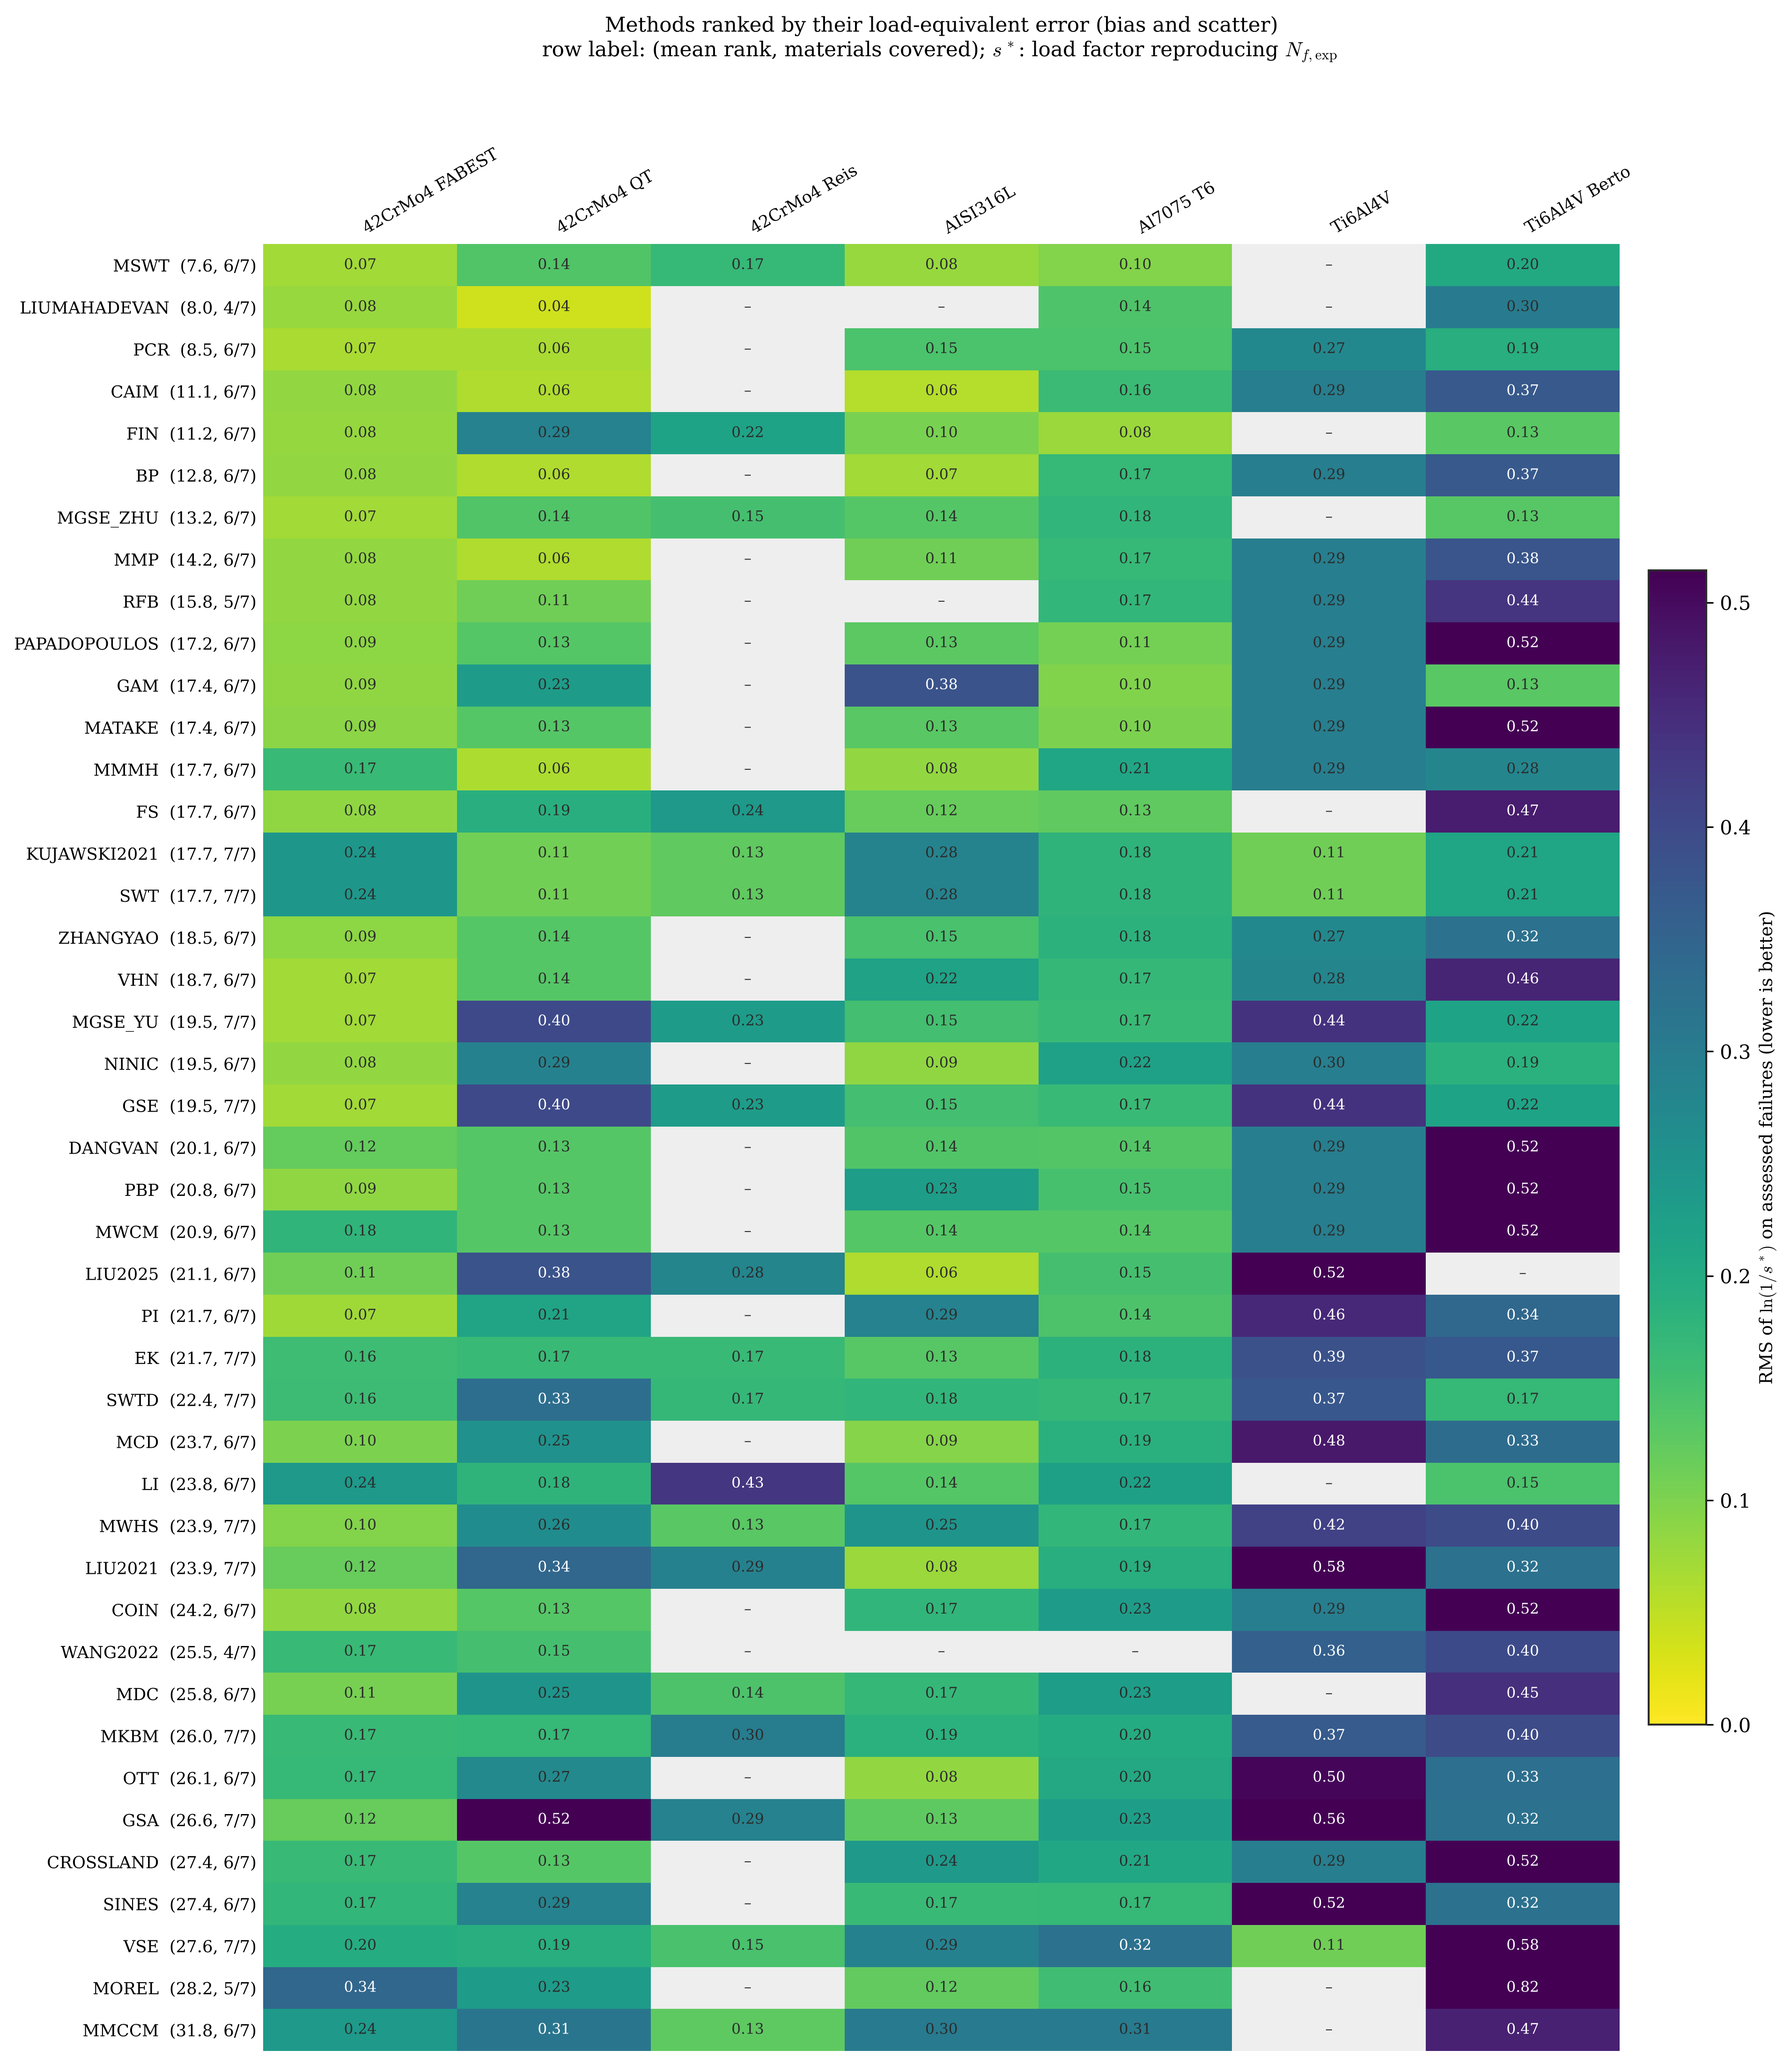
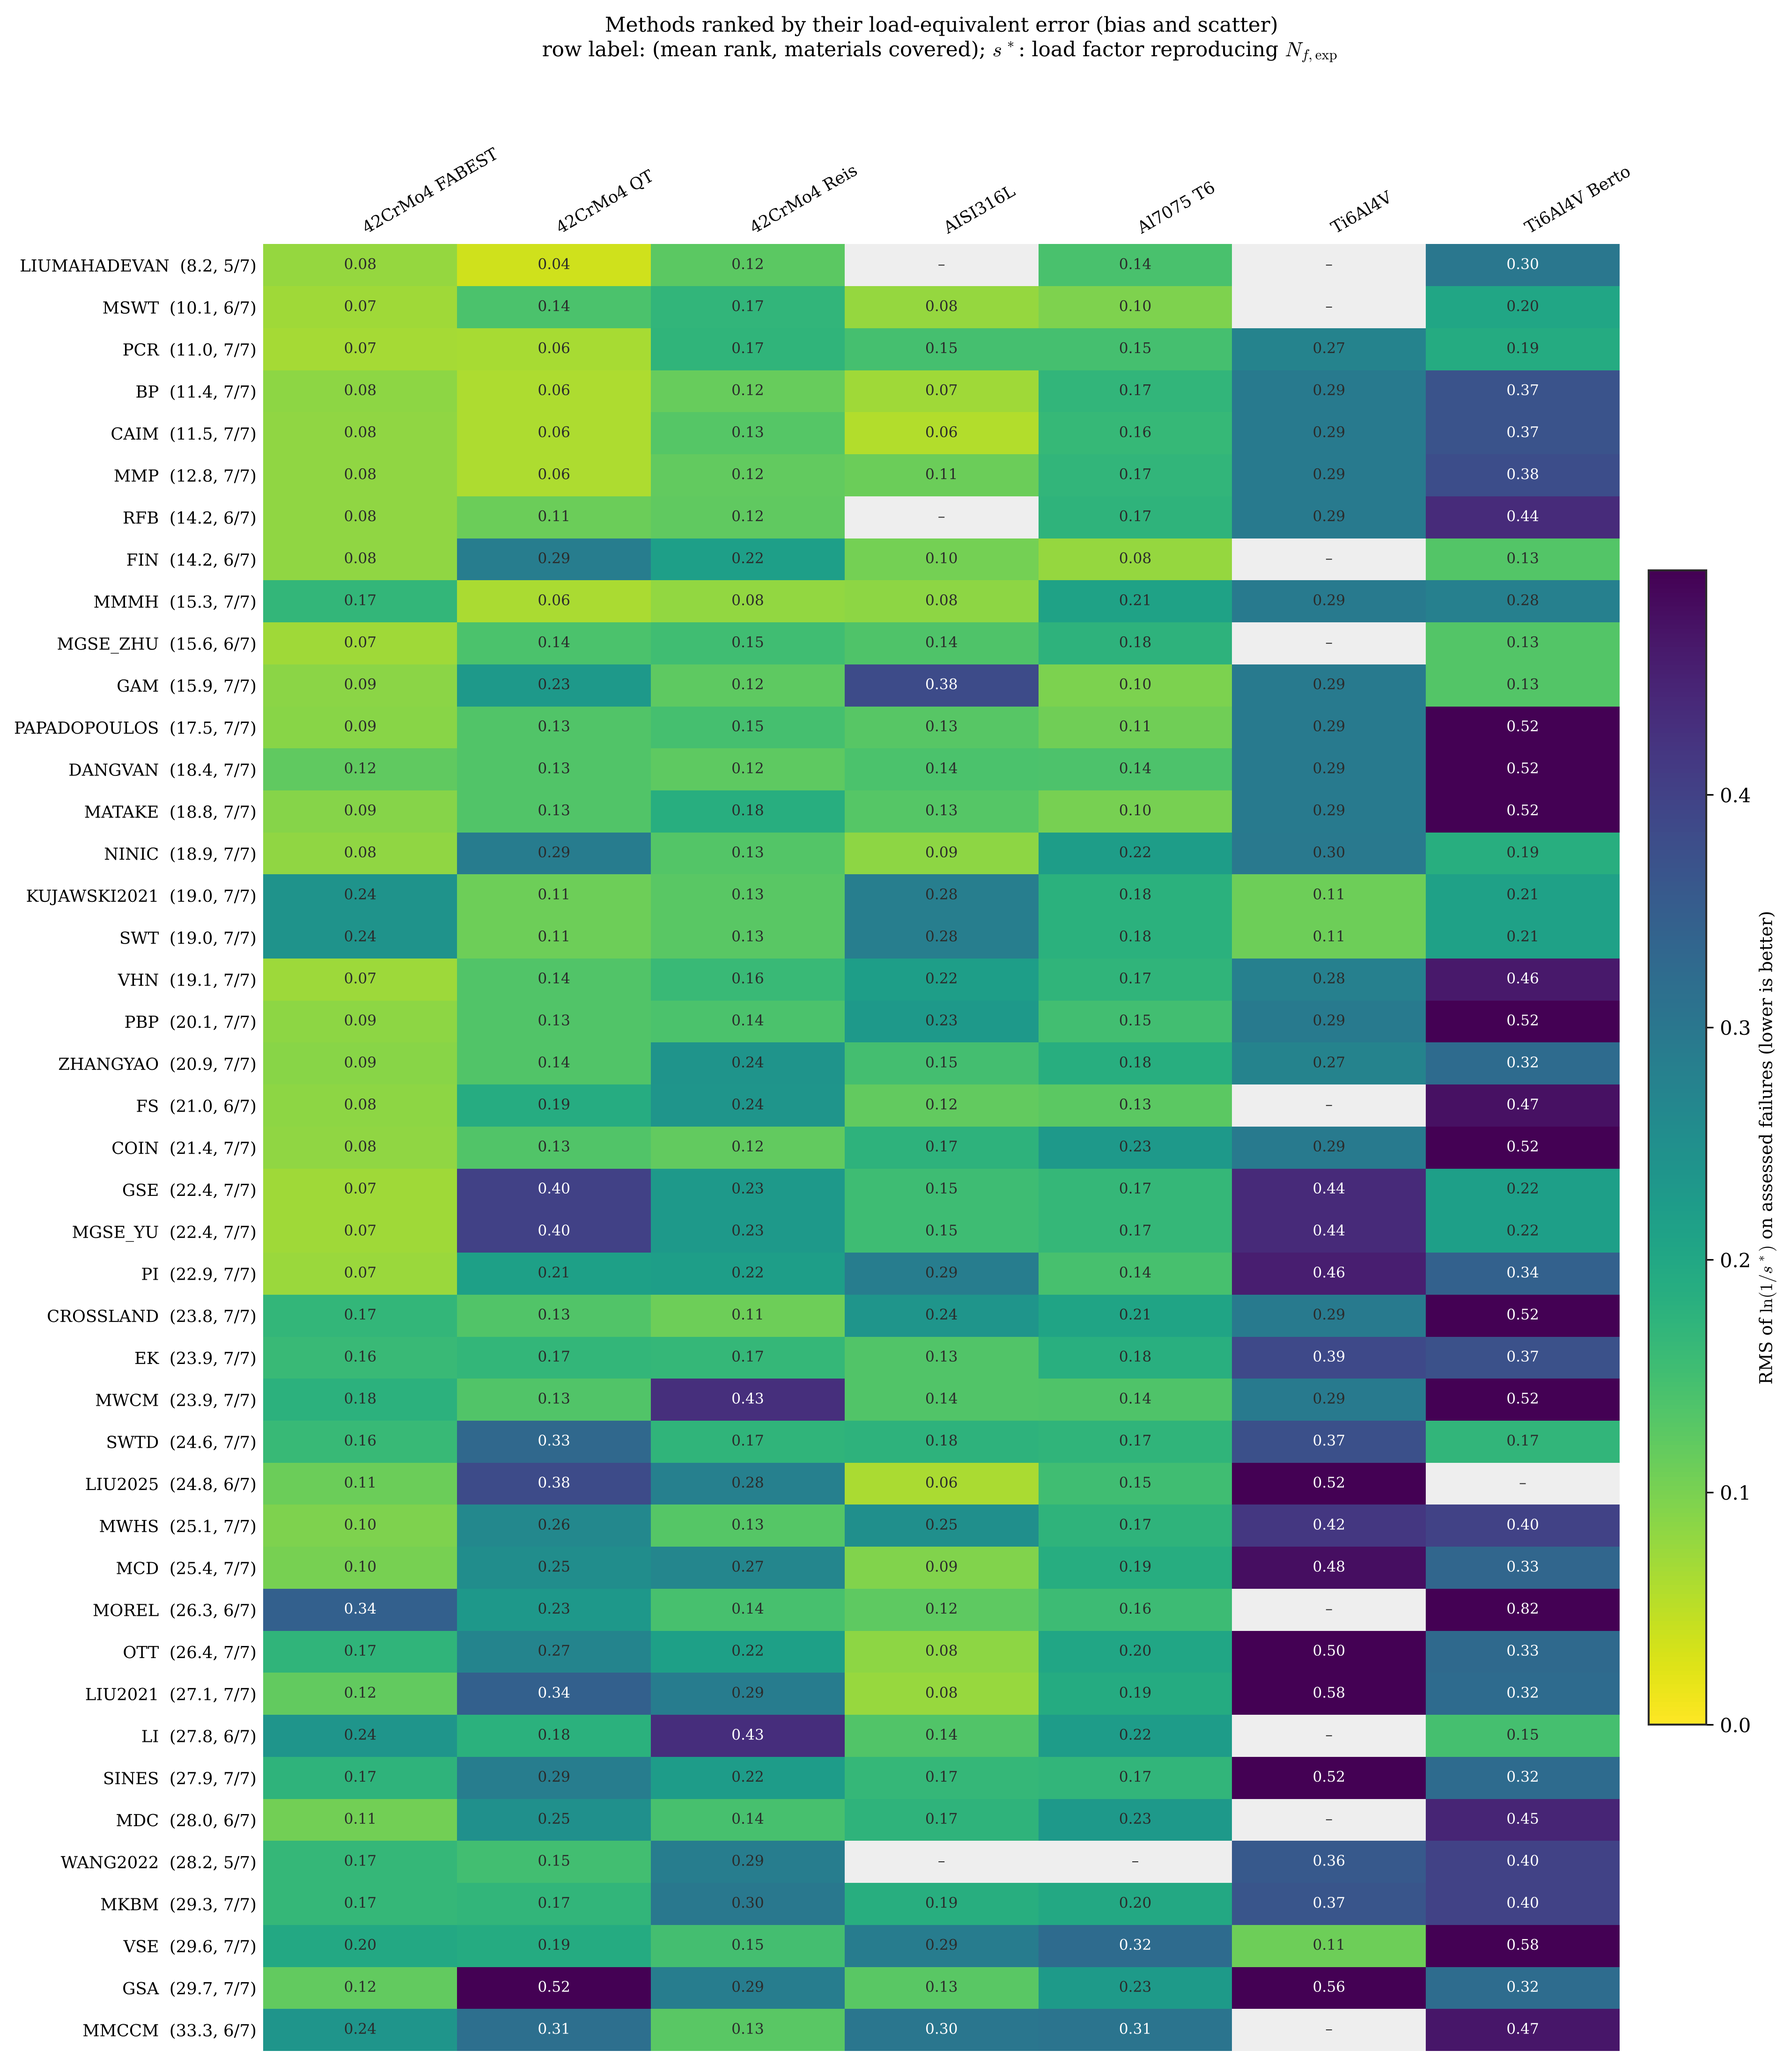
Data: R = -1 fatigue limits of 42CrMo4_Reis from the authors' trend lines (d100, #71)
Sigm1 = 452 MPa, Taum1 = 372 MPa at 1e6 cycles: Anes et al., IJF 62 (2014),
Table 5 (Table 4 trend lines), as done for FABEST. Added as a Summary source
row by an overlay; the supplied workbook is unchanged. The 22 limit-based
methods and WANG2022 now run on Reis.

Regression snapshot against main c09dc4c: no other run output changes; the
existing Reis CSVs differ only in Dataset_fingerprint. Homepage load-error
ranking: Reis rows rebuilt (19 -> 43 methods), QT/FABEST rows reproduced.

Claude-Session: https://claude.ai/code/session_01KzHgFiC4WA789boM7p2Bhj

diff --git a/tests/test_dataset_overlays.py b/tests/test_dataset_overlays.py
@@ -1,6 +1,6 @@
 """Overlay layer: as-supplied workbooks plus declared corrections reproduce the revised dataset.
 
-The five workbooks edited after supply are kept byte-identical to their source; their corrections
+The workbooks edited after supply are kept byte-identical to their source; their corrections
 are shipped with the package. Each overlay is found by the SHA-256 of the file it was written against,
 so it follows a copy of that file and never applies to an edited one.
 """
@@ -21,7 +21,7 @@ from multifat.report.subsets import dataset_fingerprint
 
 ROOT = Path(__file__).resolve().parents[1]
 FOLDER = ROOT / "Experimental_Data"
-OVERLAID = ["2_CX18", "3_25CrMo4", "4_30NCD16", "7_982FA", "8_AISI316L"]
+OVERLAID = ["2_CX18", "3_25CrMo4", "4_30NCD16", "7_982FA", "8_AISI316L", "14_42CrMo4_Reis"]
 
 
 def _sha256(path: Path) -> str:
@@ -182,3 +182,18 @@ def test_aisi316l_psi_correction_scope_is_six_of_eight_added_cases():
         assert op["psi_shear_source_precision"]["correction_type"].startswith(
             "published figure rounding"
         )
+
+
+def test_reis_fatigue_limits_are_the_authors_trend_lines_at_1e6():
+    """d100: Sigm1, Taum1 of 42CrMo4_Reis = Anes et al. IJF 62 (2014) Table 5 at N = 1e6."""
+    block = load_material_workbook(FOLDER / "14_42CrMo4_Reis.xlsx")["42CrMo4_Reis"]
+    assert block["material"]["Tensile_fatigue_limit_MPa"] == 452.0
+    assert block["material"]["Torsional_fatigue_limit_MPa"] == 372.0
+    (src,) = block["fatigue_limit_sources"]["Sigm1"]
+    assert src["reference"] == "10.1016/j.ijfatigue.2013.05.004"
+    assert src["reference_cycles"] == 1e6 and src["loading"] == "push-pull"
+    # the Table 4 trend lines behind Table 5 (sigma_a = 1204.3 N^-0.071, tau_a = 864.78 N^-0.061)
+    assert abs(1204.3 * 1e6**-0.071 - 452.0) < 1.0
+    assert abs(864.78 * 1e6**-0.061 - 372.0) < 1.0
+    off = load_material_workbook(FOLDER / "14_42CrMo4_Reis.xlsx", overlay=False)["42CrMo4_Reis"]
+    assert off["material"]["Tensile_fatigue_limit_MPa"] is None

diff --git a/Experimental_Data/PROVENANCE.md b/Experimental_Data/PROVENANCE.md
@@ -62,6 +62,7 @@ confirmed by T. Grossi on 2026-10-19 (decision d061).
 
 - 42CrMo4 and Ti6Al4V: confirm whether the Anes/Reis and Berto rows should remain separated as distinct batch workbooks
   (`14_42CrMo4_Reis.xlsx` and `15_Ti6Al4V_Berto.xlsx`) or consolidated into the primary files.
+  For 42CrMo4 they stay separate: the three workbooks are the batches compared in issue #71.
 - AISI316L: the Braun Summary row gives 387.8 MPa as tensile fatigue limit at R = 0; Braun Fig. 13(i)
   prints it as the stress range Delta sigma_R,50% at 1e6 cycles (amplitude 193.9 MPa). Averaged with
   Janssens' 241 MPa (R = -1) it gives Sigm1 = 314.4 MPa, which the importer does not use (stress-ratio
@@ -144,6 +145,29 @@ transverse hole) and fretting curves. Their axial R = -1 strengths at 1e6 cycles
 - Whether the shear stress of the hollow specimens refers to the outer surface or to the mean wall
   radius ("related to net section") is not stated. Values are used as given.
 
+## 14_42CrMo4_Reis.xlsx: R = -1 fatigue limits (overlay, 2026-11-10)
+
+**Maintainer decision d100 (issue #71).** The Summary had no fatigue limits, so the 22 limit-based
+methods and WANG2022 skipped this batch. As for FABEST, the limits are the authors' strengths at
+N = 1e6 from their own S-N trend lines: Anes, Reis, Li, Fonte, de Freitas, Int. J. Fatigue 62 (2014)
+21-33, doi:10.1016/j.ijfatigue.2013.05.004, Table 5 p. 28, case 1 at N = 1e6:
+
+| Limit | Value | Trend line (Table 4, p. 27) |
+| --- | --- | --- |
+| Sigm1 (push-pull, R = -1) | 452 MPa | sigma_a = 1204.3 N^-0.071 (case 1, pure axial) |
+| Taum1 (R = -1) | 372 MPa | tau_a = 864.78 N^-0.061 (case 2, pure shear) |
+
+The IJF 62 paper analyses the same Reis tests as the two Summary sources (the SSF surface is fitted
+on them, `Calibrations/42CrMo4_Reis/SSF_published.json`).
+
+- The supplied workbook is unchanged. The values are a new Summary source row (row 4, with the
+  column `Axial fatigue limit loading` = push-pull), added by
+  `src/multifat/imp/overlay_files/14_42CrMo4_Reis.overlay.json`; `--no-overlay` returns the
+  workbook without limits.
+- The longest R = -1 failures reach 2.7e5 (axial) and 3.2e5 cycles (torsion), so the values at
+  1e6 extrapolate the authors' trend lines; they are finite-life strengths, not staircase limits.
+- Ratio Taum1/Sigm1 = 0.823, against 0.794 (QT) and 0.709 (FABEST) (issue #71).
+
 ## 42CrMo4_QT.xlsx
 
 | Source (as cited in workbook) | Plain failures | Plain run-outs | Notched | Where the data are printed | How read |
@@ -167,6 +191,9 @@ Material constants printed in the sources:
   σa = 103 + 859.9·N_f^-0.066 MPa; strengths at 5×10^6 cycles: 412 MPa (axial), 328 MPa (torsion).
   The paper says its supplies are distinct from those of its ref. [17]; it does not say they are the Santus
   2018 bars.
+- **Maintainer decision d101 (2026-11-10, issue #71):** the Santus 2018 and Benedetti 2022 tests of this
+  workbook are one batch, and `42CrMo4_QT` is treated as one batch in the cross-batch comparison
+  (`examples/data/material_families.json`).
 
 Known issues:
 
